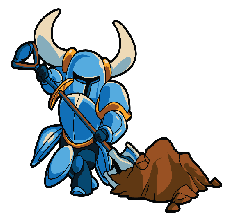
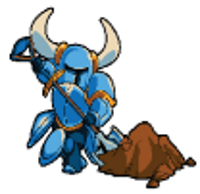
done?

Changed region(s): [[0.03, 0.0309, 0.99, 0.9897], [0.81, 0.8351, 0.84, 0.866]]

diff --git a/FiniteStateMachine/FiniteStateMachine/game.cpp b/FiniteStateMachine/FiniteStateMachine/game.cpp
@@ -45,14 +45,20 @@ void Game::processEvents()
 	Animation fsm;
 
 	while (m_window.pollEvent(event))
-	{
+	{	
+		
+		fsm.idle();
+		m_Sprite.setTexture(m_texture[0]);
+
+
 		if ( sf::Event::Closed == event.type) // window message
 		{
 			m_window.close();
 		}
 		if (sf::Event::KeyPressed == event.type) //user key press
 		{
-			
+				
+
 			switch (event.key.code)
 			{
 			case sf::Keyboard::Escape:
@@ -60,19 +66,23 @@ void Game::processEvents()
 				break;
 			case sf::Keyboard::Up:
 				fsm.climbing();
-				m_whichState = climb;
+				m_Sprite.setTexture(m_texture[2]);
+				
 				break;
 			case sf::Keyboard::Right:
 				fsm.hammering();
-				m_whichState = hammer;
+				m_Sprite.setTexture(m_texture[4]);
+
 				break;
 			case sf::Keyboard::Space:
 				fsm.jumping();
-				m_whichState = jump;
+				m_Sprite.setTexture(m_texture[1]);
+
 				break;
 			case sf::Keyboard::Down:
 				fsm.shoveling();
-				m_whichState = dig;
+				m_Sprite.setTexture(m_texture[3]);
+
 				break;
 			default:
 				break;
@@ -81,7 +91,7 @@ void Game::processEvents()
 		}
 	
 	}
-	fsm.idle();
+
 }
 
 /// <summary>
@@ -109,11 +119,33 @@ void Game::render()
 /// </summary>
 void Game::setupSprite()
 {
-	if (!m_texture.loadFromFile("ASSETS\\IMAGES\\Dig.png"))
+	if (!m_texture[0].loadFromFile("ASSETS\\IMAGES\\Idle.png"))
 	{
 		// simple error message if previous call fails
 		std::cout << "problem loading logo" << std::endl;
 	}
-	m_Sprite.setTexture(m_texture);
-	m_Sprite.setPosition(300.0f, 180.0f);
+	if (!m_texture[1].loadFromFile("ASSETS\\IMAGES\\jump.png"))
+	{
+		// simple error message if previous call fails
+		std::cout << "problem loading logo" << std::endl;
+	}
+	if (!m_texture[2].loadFromFile("ASSETS\\IMAGES\\Climb.png"))
+	{
+		// simple error message if previous call fails
+		std::cout << "problem loading logo" << std::endl;
+	}
+	if (!m_texture[3].loadFromFile("ASSETS\\IMAGES\\Dig.png"))
+	{
+		// simple error message if previous call fails
+		std::cout << "problem loading logo" << std::endl;
+	}
+	if (!m_texture[4].loadFromFile("ASSETS\\IMAGES\\Hammer.png"))
+	{
+		// simple error message if previous call fails
+		std::cout << "problem loading logo" << std::endl;
+	}
+	
+	m_Sprite.setTexture(m_texture[0]);																																					
+	m_Sprite.setPosition(350.0f, 200.0f);
+
 }

diff --git a/FiniteStateMachine/FiniteStateMachine/game.h b/FiniteStateMachine/FiniteStateMachine/game.h
@@ -14,7 +14,8 @@ public:
 	/// main method for game
 	/// </summary>
 	void run();
-	enum FiniteStates{climb,hammer,jump,dig};
+	
+	static const int MAX_SPRITES = 5;
 
 private:
 
@@ -24,11 +25,9 @@ private:
 	void setupSprite();
 
 	sf::RenderWindow m_window; // main SFML window
-	sf::Texture m_texture; // texture used for sfml logo
+	sf::Texture m_texture[MAX_SPRITES]; // texture used for sfml logo
 	sf::Sprite m_Sprite; // sprite used for sfml logo
 	bool m_exitGame; // control exiting game
-	int m_whichState;
-	int m_lastState;
 
 };
 
